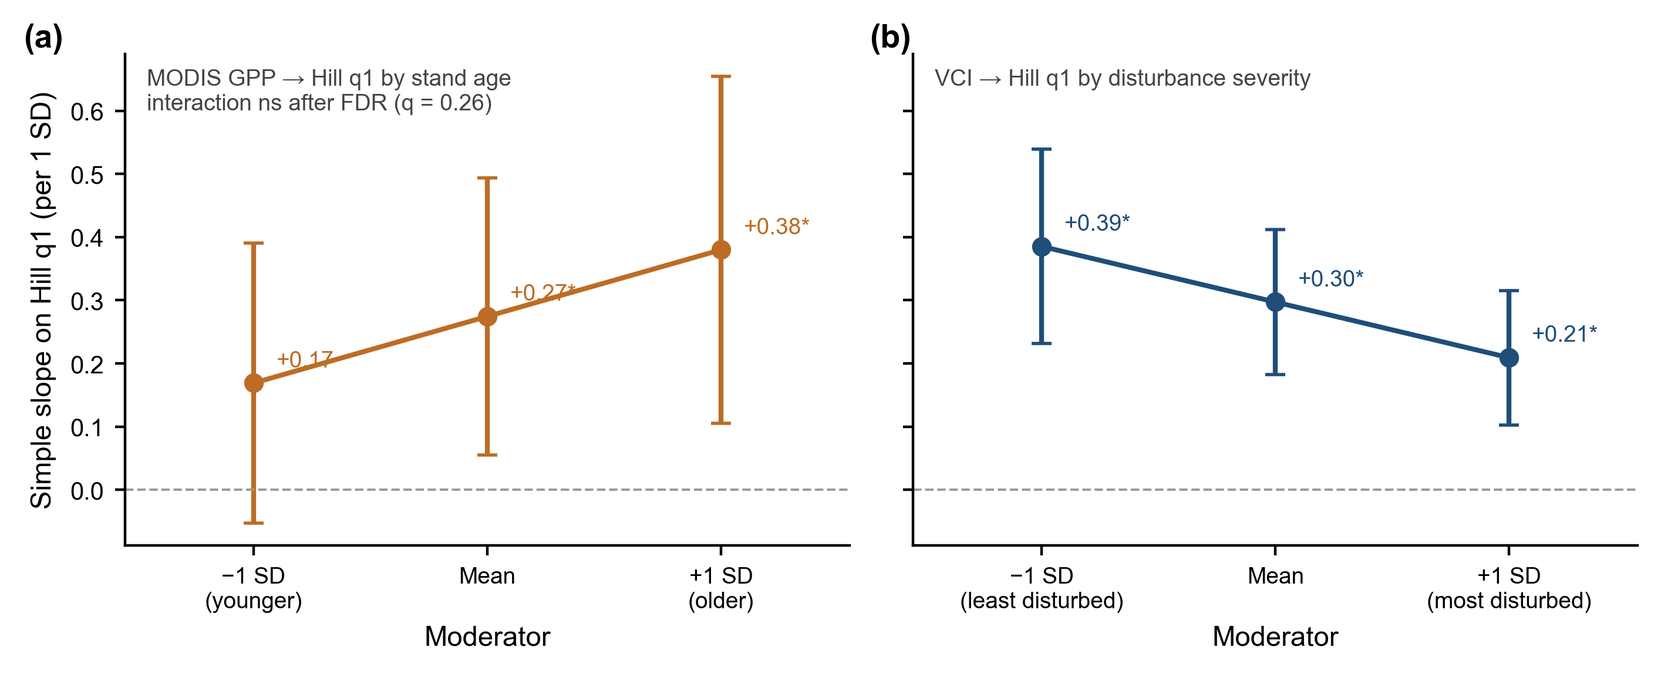
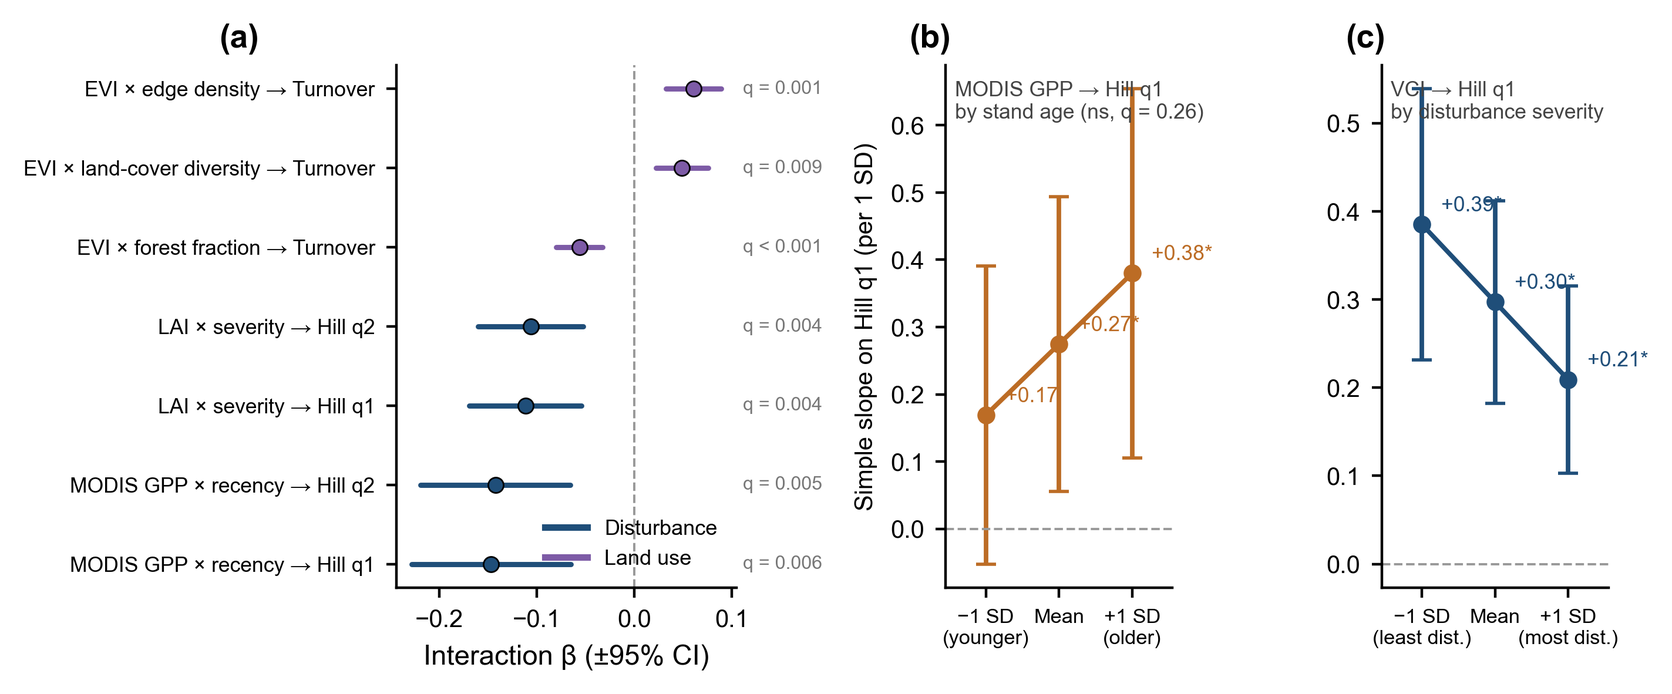
Figure revisions per author review: map redo, 4-response Bayesian, hexbin/labels, MODIS panel, full interaction forest
- Fig 2: CONUS Albers (EPSG:5070) main map + Alaska Albers (EPSG:3338) inset;
  manual per-site label offsets for clustered sites (both panels).
- Fig 3: Bayesian multilevel extended to ALL FOUR responses (bayes_multilevel.py
  loops q1/q2/turnover/nestedness; all 0 divergences, R-hat<=1.002). Forests now
  (c) q1, (d) q2 (mirrors q1: LAI +0.40, VCI +0.26, EVI +0.26), (e) turnover
  (only two small credible trends, beta ~ +0.09), (f) nestedness.
- Fig 4: hexagons regularized (explicit extent + gridsize), density colorbar
  ("Number of plot pairs, log scale"), red decile-mean line legend added.
- Fig 5: MODIS panel added (c): site-mean MODIS vs Hill q1 r=+0.60 p=0.001,
  MODIS-tower r=+0.85; PML panel annotated vs tower r=+0.86.
- Fig 6: redesigned - (a) all seven FDR-surviving interactions from the 168-term
  screen (incl. the three spectral EVI x land-use terms; Wald-reconstructed CIs,
  q labels outside axis), (b) GPP x age simple slopes, (c) VCI x severity.
Manuscript: Methods (Bayesian all four responses), 3.1 (q2/turnover Bayesian
results, panel refs c-f), 3.5 (satellite-diversity r values, Fig 5b,c), 3.6
(Fig 6a screen citation, slopes 6b/6c), legends 2-6 updated; S8 note extended.
All VERIFY checks pass.

Claude-Session: https://claude.ai/code/session_014QmjDFaec9SLSW3vnUrtQu

diff --git a/scripts_pipeline/make_manuscript_figures.py b/scripts_pipeline/make_manuscript_figures.py
@@ -90,25 +90,45 @@ import geopandas as gpd
 NE=os.path.join(r"C:\Users\star1\Documents\GitHub\NEON_Resilience","scripts_pipeline","_pipeline_state","ne_states.gpkg")
 if not os.path.exists(NE):
     gpd.read_file("https://naturalearth.s3.amazonaws.com/110m_cultural/ne_110m_admin_1_states_provinces.zip").to_file(NE)
-ALB="ESRI:102008"   # North America Albers equal-area
-states=gpd.read_file(NE).to_crs(ALB)
+states_raw=gpd.read_file(NE)
+name_col=[c for c in states_raw.columns if c.lower() in ("name","name_en")][0]
+conus=states_raw[~states_raw[name_col].isin(["Alaska","Hawaii"])].to_crs("EPSG:5070")   # CONUS Albers
+ak=states_raw[states_raw[name_col]=="Alaska"].to_crs("EPSG:3338")                        # Alaska Albers
 ll=pd.read_csv(D+"/plot_lonlat_26.csv").groupby("siteID")[["lon","lat"]].mean().reset_index()
 cl=pd.read_csv(D+"/site_climate_neon.csv"); hq=f.groupby("siteID").Hill_q1.mean().reset_index()
 sm=ll.merge(cl,on="siteID").merge(hq,on="siteID")
-pts=gpd.GeoDataFrame(sm,geometry=gpd.points_from_xy(sm.lon,sm.lat),crs=4326).to_crs(ALB)
-fig,ax=plt.subplots(1,2,figsize=(W,3.15),gridspec_kw={"width_ratios":[1.5,1]})
-states.plot(ax=ax[0],color="#f1f1ef",edgecolor="#ffffff",lw=0.5)
-states.boundary.plot(ax=ax[0],color="#c9c9c4",lw=0.35)
-sc=ax[0].scatter(pts.geometry.x,pts.geometry.y,c=pts.MAT_C,cmap="RdYlBu_r",s=42,edgecolor="#222222",linewidth=0.6,zorder=3)
-for _,r in pts.iterrows():
-    ax[0].annotate(r.siteID,(r.geometry.x,r.geometry.y),fontsize=4.6,color="#333333",xytext=(2.6,2.2),textcoords="offset points")
-xb,yb=pts.total_bounds[[0,2]],pts.total_bounds[[1,3]]
-ax[0].set_xlim(xb[0]-4.0e5,xb[1]+4.5e5); ax[0].set_ylim(yb[0]-3.5e5,yb[1]+3.5e5)
+gsm=gpd.GeoDataFrame(sm,geometry=gpd.points_from_xy(sm.lon,sm.lat),crs=4326)
+p48=gsm[gsm.lat<50].to_crs("EPSG:5070"); pak=gsm[gsm.lat>=50].to_crs("EPSG:3338")
+OFF={"UNDE":(3,7),"STEI":(-17,-9),"TREE":(4,-9),"ABBY":(-21,5),"WREF":(4,-8),"SOAP":(-22,-3),"TEAK":(4,3),
+     "BLAN":(-19,6),"SCBI":(-20,-7),"SERC":(5,1),"TALL":(-17,7),"DELA":(-25,-4),"LENO":(4,-9),"ORNL":(-21,-7),
+     "GRSM":(4,-8),"MLBS":(-22,3),"BART":(3,5),"HARV":(5,-5),"JERC":(4,-7),"OSBS":(4,2),"BONA":(3,4),
+     "DEJU":(3,-9),"HEAL":(-22,-1),"UKFS":(3,4),"YELL":(3,4),"RMNP":(3,4)}
+def lab(axh,dd,fs=4.8):
+    for _,r in dd.iterrows():
+        dx,dy=OFF.get(r.siteID,(3,3))
+        axh.annotate(r.siteID,(r.geometry.x,r.geometry.y),fontsize=fs,color="#333333",xytext=(dx,dy),textcoords="offset points")
+vmin,vmax=sm.MAT_C.min(),sm.MAT_C.max()
+fig,ax=plt.subplots(1,2,figsize=(W,3.25),gridspec_kw={"width_ratios":[1.5,1]})
+conus.plot(ax=ax[0],color="#f1f1ef",edgecolor="#ffffff",lw=0.5)
+conus.boundary.plot(ax=ax[0],color="#c9c9c4",lw=0.35)
+sc=ax[0].scatter(p48.geometry.x,p48.geometry.y,c=p48.MAT_C,cmap="RdYlBu_r",vmin=vmin,vmax=vmax,s=40,edgecolor="#222222",linewidth=0.6,zorder=3)
+lab(ax[0],p48)
 ax[0].set_axis_off(); panel(ax[0],"(a)",0.01,0.97)
+# Alaska inset (its own Albers) at lower-left of panel a
+axi=ax[0].inset_axes([0.00,0.02,0.30,0.34])
+ak.plot(ax=axi,color="#f1f1ef",edgecolor="#c9c9c4",lw=0.35)
+axi.scatter(pak.geometry.x,pak.geometry.y,c=pak.MAT_C,cmap="RdYlBu_r",vmin=vmin,vmax=vmax,s=28,edgecolor="#222222",linewidth=0.5,zorder=3)
+lab(axi,pak,fs=4.4)
+axi.set_xlim(-0.8e6,1.65e6); axi.set_ylim(0.4e6,2.4e6)
+axi.set_xticks([]); axi.set_yticks([])
+for sp in axi.spines.values(): sp.set_edgecolor("#aaaaaa"); sp.set_linewidth(0.6)
+axi.set_title("Alaska",fontsize=6,color="#555555",pad=1.5)
 cb=fig.colorbar(sc,ax=ax[0],shrink=0.62,pad=0.01,aspect=22); cb.set_label("Mean annual temperature (°C)",fontsize=7.5); cb.ax.tick_params(labelsize=7)
 cb.outline.set_visible(False)
-s2=ax[1].scatter(sm.MAT_C,sm.MAP_mm,c=sm.Hill_q1,cmap="viridis",s=46,edgecolor="#222222",linewidth=0.6)
-for _,r in sm.iterrows(): ax[1].annotate(r.siteID,(r.MAT_C,r.MAP_mm),fontsize=4.6,color="#333333",xytext=(2.6,2.2),textcoords="offset points")
+s2=ax[1].scatter(sm.MAT_C,sm.MAP_mm,c=sm.Hill_q1,cmap="viridis",s=44,edgecolor="#222222",linewidth=0.6)
+for _,r in sm.iterrows():
+    dx,dy=OFF.get(r.siteID,(3,3))
+    ax[1].annotate(r.siteID,(r.MAT_C,r.MAP_mm),fontsize=4.8,color="#333333",xytext=(dx,dy),textcoords="offset points")
 ax[1].set_xlabel("Mean annual temperature (°C)"); ax[1].set_ylabel("Mean annual precipitation (mm)")
 panel(ax[1],"(b)",-0.22,1.00)
 cb2=fig.colorbar(s2,ax=ax[1],shrink=0.85,pad=0.03,aspect=22); cb2.set_label("Site-mean Hill q1",fontsize=7.5); cb2.ax.tick_params(labelsize=7)
@@ -117,7 +137,7 @@ fig.tight_layout(); fig.savefig(FIG+"/Figure_2.png",bbox_inches="tight"); plt.cl
 print(f"VERIFY Fig2: sites={len(sm)} (26), MAT {sm.MAT_C.min():.1f}~{sm.MAT_C.max():.1f}C, MAP {sm.MAP_mm.min():.0f}~{sm.MAP_mm.max():.0f}mm")
 
 # ================= FIGURE 3 : plot-level framework =================
-fig=plt.figure(figsize=(W,6.5)); gs=fig.add_gridspec(2,2,hspace=0.42,wspace=0.34)
+fig=plt.figure(figsize=(W,9.4)); gs=fig.add_gridspec(3,2,hspace=0.46,wspace=0.34,height_ratios=[1.05,1,1])
 x=np.arange(4); w=0.58
 # (a) sequential
 ax=fig.add_subplot(gs[0,0])
@@ -158,8 +178,13 @@ def forest(sub_ax,resp_label):
     sub_ax.set_xlabel("Standardized β (95% HDI)"); sub_ax.set_xlim(-0.55,0.66)
     m=bm.loc[rr]
     sub_ax.set_title(f"{resp_label}   (0 divergences, R̂ ≤ {m['max_rhat']:.3f}, n = {int(m['n'])})",fontsize=7.4,loc="left",color="#444444")
-axc=fig.add_subplot(gs[1,0]); forest(axc,"Hill q1"); panel(axc,"(c)",-0.30,1.02)
-axd=fig.add_subplot(gs[1,1]); forest(axd,"LCBD nestedness"); panel(axd,"(d)",-0.30,1.02)
+FOREST_ORDER=[("Hill q1","Hill_q1","(c)"),("Hill q2","Hill_q2","(d)"),
+              ("LCBD turnover","LCBD_turnover_rare","(e)"),("LCBD nestedness","LCBD_nestedness_rare","(f)")]
+BAYES_RESP={lbl:rr for lbl,rr,_ in FOREST_ORDER if rr in set(bc.response)}
+slots=[gs[1,0],gs[1,1],gs[2,0],gs[2,1]]
+for (lbl,rr,letter),slot in zip(FOREST_ORDER,slots):
+    if rr not in set(bc.response): continue
+    axf=fig.add_subplot(slot); forest(axf,lbl); panel(axf,letter,-0.30,1.02)
 fig.savefig(FIG+"/Figure_3.png",bbox_inches="tight"); plt.close(fig)
 seq=[round(d,3) for d in dyn]
 print(f"VERIFY Fig3: seq dyn={seq} (text 0.042/0.039/0.013/0.056) | unique str q1={vp.loc['Hill q1','unique_structure']:.3f} (0.081), dyn nest={vp.loc['LCBD nestedness','unique_dynamics']:.3f} (0.056)")
@@ -192,58 +217,92 @@ else:
     y=np.concatenate(Y); xst=np.concatenate(XSt); xse=np.concatenate(XSe)
     np.savez_compressed(DCACHE,y=y,xst=xst,xse=xse,nsite=nsite)
 rst=np.corrcoef(rankdata(xst),rankdata(y))[0,1]; rse=np.corrcoef(rankdata(xse),rankdata(y))[0,1]
-fig,ax=plt.subplots(1,2,figsize=(W,3.15),sharey=True)
+fig,ax=plt.subplots(1,2,figsize=(W,3.55),sharey=True)
+hbs=[]
 for a,(xx,r,xlab,letter) in zip(ax,[(xst,rst,"Structural distance (Euclidean)","(a)"),(xse,rse,"Spectral distance (Euclidean)","(b)")]):
-    hb=a.hexbin(xx,y,gridsize=55,cmap="Greys",bins="log",mincnt=1,linewidths=0)
+    xmax=float(np.quantile(xx,0.995))
+    hb=a.hexbin(xx,y,gridsize=(34,26),extent=(0,xmax,0,1.0),cmap="Greys",bins="log",mincnt=1,linewidths=0)
+    hbs.append(hb)
     bins=np.quantile(xx,np.linspace(0,1,11)); idx=np.digitize(xx,bins)
     bx=[xx[idx==k].mean() for k in range(1,11) if (idx==k).sum()>=50]; by=[y[idx==k].mean() for k in range(1,11) if (idx==k).sum()>=50]
-    a.plot(bx,by,'o-',color=C_ACC,ms=4.2,lw=1.6,zorder=4)
-    a.set_xlabel(xlab); a.set_xlim(0,np.quantile(xx,0.995))
-    a.text(0.03,0.06,f"Mantel r = {r:+.2f} (Spearman), p = 0.001",transform=a.transAxes,fontsize=7.2,color="#222222")
+    a.plot(bx,by,'o-',color=C_ACC,ms=4.2,lw=1.6,zorder=4,label="Decile-bin mean")
+    a.set_xlabel(xlab); a.set_xlim(0,xmax); a.set_ylim(-0.02,1.04)
+    a.text(0.03,0.045,f"Mantel r = {r:+.2f} (Spearman), p = 0.001",transform=a.transAxes,fontsize=7.2,color="#222222")
     panel(a,letter,-0.14 if letter=="(a)" else -0.06,1.00)
 ax[0].set_ylabel("Compositional dissimilarity (Bray–Curtis)")
-fig.tight_layout(); fig.savefig(FIG+"/Figure_4.png",bbox_inches="tight"); plt.close(fig)
+ax[0].legend(frameon=False,loc="lower right",fontsize=7)
+cb=fig.colorbar(hbs[1],ax=ax,shrink=0.85,pad=0.015,aspect=26)
+cb.set_label("Number of plot pairs (log scale)",fontsize=7.5); cb.ax.tick_params(labelsize=7); cb.outline.set_visible(False)
+fig.savefig(FIG+"/Figure_4.png",bbox_inches="tight"); plt.close(fig)
 print(f"VERIFY Fig4: Spearman struct={rst:+.2f} (+0.32), spectral={rse:+.2f} (+0.30), pairs={len(y)} (8,813), sites={nsite} (23)")
 
 # ================= FIGURE 5 : species-energy =================
 g3=pd.read_csv(D+"/plot_pml_gpp_ts_26.csv")[["plotID","pml_gpp"]]
-site=f.merge(g3,on="plotID").groupby("siteID").agg(Hill_q1=("Hill_q1","mean"),pml=("pml_gpp","mean")).reset_index()
+gm=pd.read_csv(D+"/plot_modis_gpp_26.csv")[["plotID","modis_gpp"]]
+site=(f.merge(g3,on="plotID").merge(gm,on="plotID",how="left")
+       .groupby("siteID").agg(Hill_q1=("Hill_q1","mean"),pml=("pml_gpp","mean"),modis=("modis_gpp","mean")).reset_index())
 tw=pd.read_csv(D+"/site_tower_gpp_26.csv")[["siteID","tower_gpp"]]; site=site.merge(tw,on="siteID",how="left")
 tv=site.dropna(subset=["tower_gpp"])
 rt,pt=st.pearsonr(tv.tower_gpp,tv.Hill_q1)
 t2=tv.assign(z=(tv.tower_gpp-tv.tower_gpp.mean())/tv.tower_gpp.std()); qt=smf.ols("Hill_q1 ~ z + I(z**2)",t2).fit().pvalues["I(z ** 2)"]
 rp_,pp_=st.pearsonr(site.pml,site.Hill_q1); rvt=st.pearsonr(tv.pml,tv.tower_gpp)[0]
-fig,ax=plt.subplots(1,2,figsize=(W,3.15),sharey=True)
-for a,(d3,xc,r,p,xl,note,col,letter) in zip(ax,[
-    (tv,"tower_gpp",rt,pt,"Tower GPP (gC m$^{-2}$ yr$^{-1}$)",f"r = {rt:+.2f}, p = {pt:.3f}\nquadratic ns (p = {qt:.2f})",C_PRO,"(a)"),
-    (site,"pml",rp_,pp_,"Site-mean PML-V2 GPP (2000–2024)",f"r = {rp_:+.2f}, p = {pp_:.3f}\nPML vs tower r = +{rvt:.2f}","#2a6f4e","(b)")]):
-    a.scatter(d3[xc],d3.Hill_q1,s=30,color=col,edgecolor="white",linewidth=0.5,zorder=3)
-    for _,row in d3.iterrows(): a.annotate(row.siteID,(row[xc],row.Hill_q1),fontsize=4.4,color="#555555",xytext=(2.6,2.0),textcoords="offset points")
-    b1,b0=np.polyfit(d3[xc],d3.Hill_q1,1); xr=np.linspace(d3[xc].min(),d3[xc].max(),50); a.plot(xr,b0+b1*xr,color="#222222",lw=1.4)
-    a.set_xlabel(xl)
-    a.text(0.03,0.87,note,transform=a.transAxes,fontsize=7.2,color="#222222")
-    panel(a,letter,-0.14 if letter=="(a)" else -0.06,1.00)
+sm_=site.dropna(subset=["modis"]); rm_,pm_=st.pearsonr(sm_.modis,sm_.Hill_q1); rmt=st.pearsonr(tv.modis,tv.tower_gpp)[0]
+fig,ax=plt.subplots(1,3,figsize=(W,2.75),sharey=True)
+for a,(d3,xc,xl,note,col,letter) in zip(ax,[
+    (tv,"tower_gpp","Tower GPP (gC m$^{-2}$ yr$^{-1}$)",f"r = {rt:+.2f}, p = {pt:.3f}\nquadratic ns (p = {qt:.2f})",C_PRO,"(a)"),
+    (site,"pml","Site-mean PML-V2 GPP",f"r = {rp_:+.2f}, p = {pp_:.3f}\nvs tower r = +{rvt:.2f}","#2a6f4e","(b)"),
+    (sm_,"modis","Site-mean MODIS GPP",f"r = {rm_:+.2f}, p = {pm_:.3f}\nvs tower r = +{rmt:.2f}","#556b2f","(c)")]):
+    a.scatter(d3[xc],d3.Hill_q1,s=24,color=col,edgecolor="white",linewidth=0.5,zorder=3)
+    for _,row in d3.iterrows(): a.annotate(row.siteID,(row[xc],row.Hill_q1),fontsize=4.0,color="#666666",xytext=(2.2,1.8),textcoords="offset points")
+    b1,b0=np.polyfit(d3[xc],d3.Hill_q1,1); xr=np.linspace(d3[xc].min(),d3[xc].max(),50); a.plot(xr,b0+b1*xr,color="#222222",lw=1.3)
+    a.set_xlabel(xl,fontsize=7.8)
+    a.text(0.03,0.86,note,transform=a.transAxes,fontsize=6.8,color="#222222")
+    panel(a,letter,-0.20 if letter=="(a)" else -0.08,1.00)
 ax[0].set_ylabel("Site-mean tree diversity (Hill q1)")
 fig.tight_layout(); fig.savefig(FIG+"/Figure_5.png",bbox_inches="tight"); plt.close(fig)
-print(f"VERIFY Fig5: tower r={rt:+.2f} p={pt:.3f} (+0.59, 0.004), quad p={qt:.2f} (0.87), PML-tower r={rvt:+.2f} (+0.86), n_tower={len(tv)} (22)")
+print(f"VERIFY Fig5: tower r={rt:+.2f} p={pt:.3f} (+0.59, 0.004), quad p={qt:.2f} (0.87), PML r={rp_:+.2f}, MODIS r={rm_:+.2f}, PML-tower +{rvt:.2f} (+0.86), MODIS-tower +{rmt:.2f}, n_tower={len(tv)} (22)")
 
 # ================= FIGURE 6 : context moderation =================
+# (a) all FDR-surviving interaction terms from the full screen (168 terms; incl. spectral x land use)
+o4=pd.read_csv(RES+"/o4_interactions_consistent.csv"); sig=o4[o4.q<0.05].copy()
+zcrit=st.norm.ppf(1-sig.p/2); sig["se_appx"]=np.abs(sig.beta_int)/zcrit    # Wald-reconstructed SE
+RSN={"LAI_mean":"LAI","VCI_mean":"VCI","EVI_mean":"EVI","modis_gpp":"MODIS GPP","pml_gpp":"PML GPP"}
+CTXN={"severity":"severity","recency":"recency","lc_shannon":"land-cover diversity","lc_edge":"edge density",
+      "forest_frac":"forest fraction","lc_forest_frac":"forest fraction","stand_age_gami":"stand age"}
+RESPN={"Hill q1":"Hill q1","Hill q2":"Hill q2","turnover":"Turnover","nestedness":"Nestedness","Turnover":"Turnover","Nestedness":"Nestedness"}
+FAMC={"disturbance":C_STR,"land use":"#7d5ba6","stand age":C_PRO}
+sig["label"]=[f"{RSN.get(r.rs,r.rs)} × {CTXN.get(r.context,r.context)} → {RESPN.get(r.response,r.response)}" for r in sig.itertuples()]
+sig=sig.sort_values(["family","beta_int"]).reset_index(drop=True)
 ss=pd.read_csv(RES+"/simple_slopes.csv"); z=[-1,0,1]
 gA=ss[(ss.rp=="Hill q1")&(ss.rs=="modis_gpp")&(ss.ctx=="stand_age_gami")].sort_values("ctx_z")
 gB=ss[(ss.rp=="Hill q1")&(ss.rs=="VCI_mean")&(ss.ctx=="severity")].sort_values("ctx_z")
-fig,ax=plt.subplots(1,2,figsize=(W,2.9),sharey=True)
-for a,(g4,col,xt,note,letter) in zip(ax,[
-    (gA,C_PRO,["−1 SD\n(younger)","Mean","+1 SD\n(older)"],"MODIS GPP → Hill q1 by stand age\ninteraction ns after FDR (q = 0.26)","(a)"),
-    (gB,C_STR,["−1 SD\n(least disturbed)","Mean","+1 SD\n(most disturbed)"],"VCI → Hill q1 by disturbance severity","(b)")]):
-    a.errorbar(z,g4.slope,yerr=1.96*g4.se,marker="o",capsize=3,color=col,lw=1.5,ms=5)
+fig,ax=plt.subplots(1,3,figsize=(W,3.0),gridspec_kw={"width_ratios":[1.5,1,1]})
+a=ax[0]; ysig=np.arange(len(sig))
+for yi,r in zip(ysig,sig.itertuples()):
+    c=FAMC.get(r.family,"#444444")
+    a.plot([r.beta_int-1.96*r.se_appx,r.beta_int+1.96*r.se_appx],[yi,yi],color=c,lw=1.6,solid_capstyle="round")
+    a.scatter([r.beta_int],[yi],s=22,color=c,edgecolor="black",linewidth=0.5,zorder=3)
+    qtxt="q < 0.001" if r.q<0.001 else f"q = {r.q:.3f}"
+    a.text(1.02,yi,qtxt,transform=a.get_yaxis_transform(),fontsize=5.8,color="#777777",va="center",ha="left")
+a.axvline(0,color="#999999",lw=0.7,ls="--")
+a.set_yticks(ysig); a.set_yticklabels(sig.label,fontsize=6.4)
+a.set_xlabel("Interaction β (±95% CI)")
+from matplotlib.lines import Line2D
+a.legend(handles=[Line2D([0],[0],color=FAMC["disturbance"],lw=2,label="Disturbance"),
+                  Line2D([0],[0],color=FAMC["land use"],lw=2,label="Land use")],
+         frameon=False,loc="lower right",fontsize=6.5)
+panel(a,"(a)",-0.52,1.02)
+for a,(g4,col,xt,note,letter) in zip(ax[1:],[
+    (gA,C_PRO,["−1 SD\n(younger)","Mean","+1 SD\n(older)"],"MODIS GPP → Hill q1\nby stand age (ns, q = 0.26)","(b)"),
+    (gB,C_STR,["−1 SD\n(least dist.)","Mean","+1 SD\n(most dist.)"],"VCI → Hill q1\nby disturbance severity","(c)")]):
+    a.errorbar(z,g4.slope,yerr=1.96*g4.se,marker="o",capsize=3,color=col,lw=1.4,ms=4.5)
     for zz,sl,pv in zip(z,g4.slope,g4.p):
-        a.annotate(f"{sl:+.2f}{'*' if pv<0.05 else ''}",(zz,sl),textcoords="offset points",xytext=(7,5),color=col,fontsize=7)
+        a.annotate(f"{sl:+.2f}{'*' if pv<0.05 else ''}",(zz,sl),textcoords="offset points",xytext=(6,4),color=col,fontsize=6.4)
     a.axhline(0,color="#999999",lw=0.7,ls="--")
-    a.set_xticks(z); a.set_xticklabels(xt,fontsize=7); a.set_xlim(-1.55,1.55)
-    a.set_xlabel("Moderator")
-    a.text(0.03,0.97,note,transform=a.transAxes,fontsize=7.0,color="#444444",va="top")
-    panel(a,letter,-0.14 if letter=="(a)" else -0.06,1.00)
-ax[0].set_ylabel("Simple slope on Hill q1 (per 1 SD)")
+    a.set_xticks(z); a.set_xticklabels(xt,fontsize=6.2); a.set_xlim(-1.55,1.55)
+    a.text(0.04,0.97,note,transform=a.transAxes,fontsize=6.4,color="#444444",va="top")
+    panel(a,letter,-0.16,1.02)
+ax[1].set_ylabel("Simple slope on Hill q1 (per 1 SD)",fontsize=7.5)
 fig.tight_layout(); fig.savefig(FIG+"/Figure_6.png",bbox_inches="tight"); plt.close(fig)
-print(f"VERIFY Fig6: MODISxAge slopes={[round(v,2) for v in gA.slope]} p={[round(v,3) for v in gA.p]} (+0.17/+0.27/+0.38) | VCIxSev={[round(v,2) for v in gB.slope]} (+0.39->+0.21)")
+print(f"VERIFY Fig6: FDR-sig interactions={len(sig)} (7: 4 disturbance + 3 land use) | MODISxAge slopes={[round(v,2) for v in gA.slope]} | VCIxSev={[round(v,2) for v in gB.slope]}")
 print("ALL FIGURES SAVED ->",FIG)

diff --git a/scripts_pipeline/bayes_multilevel.py b/scripts_pipeline/bayes_multilevel.py
@@ -12,9 +12,11 @@ S=["Rugosity_mean","Vert_CV_mean","VCI_mean","LAI_mean"];P=["EVI_mean"]
 Dn=["Rumple_trend","Vert_SD_trend","Vert_CV_trend","VCI_trend","FHD_trend","LAI_trend","Ht_Ratio_trend"];keep=S+P+Dn
 def block(c): return "structure" if c in S else "spectral" if c in P else "dynamics"
 coef_rows=[]; meta_rows=[]
-for resp in ['Hill_q1','LCBD_nestedness_rare']:
+for resp in ['Hill_q1','Hill_q2','LCBD_turnover_rare','LCBD_nestedness_rare']:
     d=f[[resp,'domain','siteID']+keep].dropna().copy()
-    y=np.log(d[resp]) if 'Hill' in resp else d[resp].astype(float); d['y']=(y-y.mean())/y.std()
+    if 'Hill' in resp: y=np.log(d[resp])
+    else: y=d[resp].astype(float)
+    d['y']=(y-y.mean())/y.std()
     for c in keep: d[c]=(d[c]-d[c].mean())/d[c].std()
     priors={"1|domain":bmb.Prior("Normal",mu=0,sigma=bmb.Prior("HalfNormal",sigma=0.5)),
             "1|domain:siteID":bmb.Prior("Normal",mu=0,sigma=bmb.Prior("HalfNormal",sigma=0.3))}

diff --git a/NEON_v2/papers/UNIFIED/MANUSCRIPT_v2_full_26site.md b/NEON_v2/papers/UNIFIED/MANUSCRIPT_v2_full_26site.md
@@ -71,7 +71,7 @@ Relationships were estimated with linear models that included NEON domain as a f
 
 Nested framework and few-cluster inference: Plot-level analyses followed a nested hierarchical framework (M0: domain; M1: + static structure and spectral state; M2: + structural dynamics) fitted over a common sample (n = 644 alpha plots, 579 beta plots). We did not include productivity as a plot-level block. The satellite GPP products carry essentially no plot-scale variation (ICC ≈ 0.92), and diagnostic runs that forced GPP into the plot model yielded a non-robust increment and a suppression pattern between the two satellite products (Section 3.4). Productivity–diversity relationships were therefore analysed at the site scale (site-mean diversity versus tower, PML, and MODIS GPP, with linear and quadratic terms to test the shape of the relationship). Because inference rested on 26 site clusters, a regime in which asymptotic cluster-robust standard errors are anticonservative, block-level significance was assessed primarily with restricted wild cluster bootstrap tests (Rademacher weights, 999 replicates) of the null that the added block's coefficients were jointly zero. Asymptotic cluster-robust Wald tests, likelihood-ratio tests, and AIC are reported as secondary summaries. Both sequential partial R² and blockwise semi-partial (unique) R² are reported and labelled explicitly.
 
-Coefficient-level Bayesian inference: The wild cluster bootstrap tests a joint block-increment null and is conservative at this cluster count; it does not resolve which individual predictors carry the signal. We therefore complemented it with a Bayesian multilevel model estimating every standardized coefficient simultaneously under partial pooling, for the two responses where the block test and the coefficient patterns diverged (alpha diversity and nestedness). Models were fitted in bambi/PyMC with crossed random intercepts for domain and site-within-domain, a non-centred parameterization, and weakly informative HalfNormal priors on the group scales (domain σ ~ HalfNormal(0.5); site σ ~ HalfNormal(0.3)) to regularize the near-singular site-variance geometry. Four chains were run with 3,000 tuning and 2,000 posterior draws each (target_accept = 0.99). Convergence was complete (0 divergent transitions; R̂ ≤ 1.002). A coefficient was deemed credible when its 95% highest-density interval (HDI) excluded zero; we also report the posterior probability of direction (Table S8).
+Coefficient-level Bayesian inference: The wild cluster bootstrap tests a joint block-increment null and is conservative at this cluster count; it does not resolve which individual predictors carry the signal. We therefore complemented it with a Bayesian multilevel model estimating every standardized coefficient simultaneously under partial pooling, fitted separately for each of the four diversity responses. Models were fitted in bambi/PyMC with crossed random intercepts for domain and site-within-domain, a non-centred parameterization, and weakly informative HalfNormal priors on the group scales (domain σ ~ HalfNormal(0.5); site σ ~ HalfNormal(0.3)) to regularize the near-singular site-variance geometry. Four chains were run with 3,000 tuning and 2,000 posterior draws each (target_accept = 0.99). Convergence was complete (0 divergent transitions; R̂ ≤ 1.002). A coefficient was deemed credible when its 95% highest-density interval (HDI) excluded zero; we also report the posterior probability of direction (Table S8).
 
 Beta diversity as dissimilarity (variation hypothesis): A predictor-level regression asks a different question from the variation hypothesis (are plots that look more different also compositionally more different?). We therefore additionally analysed beta diversity in dissimilarity space. Pairwise structural and spectral distances (Euclidean, on the standardized retained metrics) were related to compositional Bray–Curtis dissimilarity using within-site restricted-permutation Mantel tests (999 permutations of plots within sites, holding biogeography fixed). We report rank-based (Spearman) statistics because ~9% of within-site pairs share no species, which creates a ceiling at Bray–Curtis = 1. Structural and spectral distances were then fitted jointly in a saturation model appropriate to the bounded response (a GDM-family logit-link model), with significance from the same permutation scheme. Last, structural and spectral local uniqueness (LCBD computed on the remote-sensing matrices) was correlated with the turnover and nestedness components to test which beta component the heterogeneity signal tracks.
 
@@ -85,7 +85,7 @@ We first partitioned plot-level diversity variance among the two remote-sensing 
 
 Biogeographic structure alone (NEON domain) accounted for a large share of compositional turnover (R² = 0.58) and for a third to a half of the remaining components (Hill q1 R² = 0.49; Hill q2 = 0.45; nestedness = 0.33). Beyond this baseline, canopy state plus structural dynamics together explained a further 15% of alpha-diversity variance, but only 2% of turnover and 9% of nestedness (Figure 3a).
 
-Structural dynamics increased sequential partial R² by 0.042, 0.039, 0.013, and 0.056 for Hill q1, Hill q2, turnover, and nestedness, respectively. Under restricted wild cluster bootstrap tests, this joint block increment was significant for both alpha metrics (p = 0.014 and 0.007) but not for turnover (p = 0.77) or nestedness (p = 0.14). It is noted that the block-level bootstrap is a conservative joint test of the whole block's added R² and is underpowered with only ~12 domains. Because the dynamics–nestedness link is the principal beta-diversity result of this study, we also tested it at the coefficient level with the Bayesian multilevel model (Section 2.5). Three structural-dynamics trends were credibly associated with nestedness (95% HDI excluding zero): the canopy height-ratio trend (β = −0.31, HDI [−0.42, −0.20]), the vertical-CV trend (β = +0.20, HDI [+0.08, +0.32]), and the leaf-area trend (β = −0.19, HDI [−0.31, −0.07]) (Figure 3d). This was the largest credible block for this component. The same model reproduced the alpha result (LAI β = +0.40; VCI β = +0.27; both HDI excluding zero) (Figure 3c). We therefore report the dynamics → nestedness relationship as supported at the coefficient level, while the conservative joint block test does not reach few-cluster significance (Table S8).
+Structural dynamics increased sequential partial R² by 0.042, 0.039, 0.013, and 0.056 for Hill q1, Hill q2, turnover, and nestedness, respectively. Under restricted wild cluster bootstrap tests, this joint block increment was significant for both alpha metrics (p = 0.014 and 0.007) but not for turnover (p = 0.77) or nestedness (p = 0.14). It is noted that the block-level bootstrap is a conservative joint test of the whole block's added R² and is underpowered with only ~12 domains. Because the dynamics–nestedness link is the principal beta-diversity result of this study, we also tested it at the coefficient level with the Bayesian multilevel model (Section 2.5). Three structural-dynamics trends were credibly associated with nestedness (95% HDI excluding zero): the canopy height-ratio trend (β = −0.31, HDI [−0.42, −0.20]), the vertical-CV trend (β = +0.20, HDI [+0.08, +0.32]), and the leaf-area trend (β = −0.19, HDI [−0.31, −0.07]) (Figure 3f). This was the largest credible block for this component. The same model reproduced the alpha result for both Hill numbers (Hill q1: LAI β = +0.41, VCI β = +0.27; Hill q2: LAI β = +0.40, VCI β = +0.26; all HDI excluding zero) (Figure 3c, d), and for turnover it found only two small credible dynamics trends (LAI trend and height-ratio trend, both β ≈ +0.09) (Figure 3e), consistent with the small turnover R² above. We therefore report the dynamics → nestedness relationship as supported at the coefficient level, while the conservative joint block test does not reach few-cluster significance (Table S8).
 
 The variance partition (semi-partial R²; Figure 1b) showed that each plot-level dimension retained information after mutual adjustment, and that the dominant source differed among diversity components. Static structure carried the largest unique share of alpha diversity (Hill q1 = 0.081; Hill q2 = 0.073). Structural dynamics formed the largest unique block for nestedness (0.056) and the second-largest for alpha. Under wild cluster bootstrap block tests, all three blocks were significant for alpha (structure p = 0.001; spectral p ≈ 0.008–0.009; dynamics p = 0.007–0.014), whereas no block reached significance for either beta component under this joint test (all p ≥ 0.10). For turnover, the unique fractions were all small (≤ 0.013) and largely shared, indicating that no single dimension carries much unique turnover information as predictor levels. Spectral greenness contributed a small but significant alpha signal (0.011–0.013) and essentially no unique beta information (turnover = 0.001; nestedness = 0.000). Residual spatial autocorrelation was detectable but modest (Moran's I = 0.09–0.22, all p = 0.001), and block-level estimates were stable after including a smooth spatial trend.
 
@@ -107,15 +107,15 @@ Along the successional axis, the rate of leaf-area accumulation declined with st
 
 ## 3.5 Productivity relates to diversity at the site scale (species–energy)
 
-At the site level, the species–energy relationship was clear. Tower GPP was positively and monotonically related to site-mean alpha diversity across the 22 tower sites (Hill q1: r = +0.59, p = 0.004; Hill q2: r = +0.57, p = 0.006), with no evidence of a hump (quadratic p = 0.87) (Figure 5a). The satellite products agreed: site-mean PML-V2 tracked the tower closely (r = +0.86), MODIS somewhat less (r = +0.85), and both showed the same monotonic, hump-free increase (Figure 5b). GPP also retained a positive association with alpha diversity after replacing domain fixed effects with mean annual temperature and precipitation (Table S5), indicating that the relationship is not a pure climate signal.
+At the site level, the species–energy relationship was clear. Tower GPP was positively and monotonically related to site-mean alpha diversity across the 22 tower sites (Hill q1: r = +0.59, p = 0.004; Hill q2: r = +0.57, p = 0.006), with no evidence of a hump (quadratic p = 0.87) (Figure 5a). The satellite products agreed: site-mean PML-V2 and MODIS GPP were both positively related to site-mean diversity (PML r = +0.50, p = 0.009; MODIS r = +0.60, p = 0.001), tracked the tower closely (r = +0.86 and +0.85, respectively), and showed the same monotonic, hump-free increase (Figure 5b, c). GPP also retained a positive association with alpha diversity after replacing domain fixed effects with mean annual temperature and precipitation (Table S5), indicating that the relationship is not a pure climate signal.
 
 The plot-level diagnostic confirmed why productivity belongs at the site scale. Forced into the plot-level model, the productivity block added little (ΔR² = 0.003–0.012, all p > 0.18 with PML V2.2a), and its only non-trivial component, for turnover, was consistent with statistical suppression: MODIS and PML took strongly opposing signs in the joint model (MODIS β = −0.24, p = 0.04; PML β = +0.36, p = 0.02) despite being correlated at r = 0.85, whereas neither was clearly associated with turnover on its own (MODIS β = −0.01, p = 0.83; PML β = +0.06, p = 0.13) (Table S7). These opposing product-specific coefficients preclude a directional ecological interpretation. We therefore analyse productivity only at the site scale.
 
 ## 3.6 Ecological context modifies remote sensing–diversity associations
 
-Across three context families (stand age, disturbance, land use), the interaction screen (168 terms) identified seven terms surviving FDR correction (four disturbance, three land use). We treat the two coherent patterns below as interpretable and the remainder as exploratory.
+Across three context families (stand age, disturbance, land use), the interaction screen (168 terms) identified seven terms surviving FDR correction (four disturbance, three land use) (Figure 6a). We treat the two coherent patterns below as interpretable and the remainder as exploratory.
 
-First, the productivity–diversity association was descriptively steeper in older stands; simple slopes of MODIS GPP on Hill q1 rose from +0.17 (p = 0.13) at −1 SD stand age to +0.27 (p = 0.01) at the mean and +0.38 (p = 0.007) at +1 SD (Figure 6a). However, the formal GPP × stand-age interaction did not survive FDR correction (MODIS q = 0.26; PML q = 0.35). We therefore report age dependence of the productivity signal as suggestive rather than statistically supported. Second, the structure–diversity association weakened with disturbance. The leaf-area × severity interaction was negative for alpha diversity (q = 0.004), and disturbance recency additionally moderated the productivity signal (MODIS × recency q = 0.005). The VCI–diversity simple slope remained positive at all disturbance levels but declined from +0.39 (p = 9 × 10⁻⁷) in the least-disturbed plots to +0.21 (p = 1 × 10⁻⁴) in the most-disturbed (Figure 6b). Among land-use interactions, spectral-by-land-use terms on turnover survived correction (EVI × forest fraction q = 4 × 10⁻⁵; EVI × edge density q = 0.002; EVI × land-cover diversity q = 0.009) and are reported as exploratory. Direct land-use effects were weak and non-significant (edge density β = −0.09, p = 0.10; forest fraction β = +0.06, p = 0.22). Last, in the BACI analysis, the treatment × post-disturbance interaction estimated a decline of approximately one species (ΔRichness β = −1.05, p = 0.069; n = 79 impact and 215 control plots), whereas abundance-weighted diversity was unchanged (p = 0.81), consistent with losses concentrated among rare species.
+First, the productivity–diversity association was descriptively steeper in older stands; simple slopes of MODIS GPP on Hill q1 rose from +0.17 (p = 0.13) at −1 SD stand age to +0.27 (p = 0.01) at the mean and +0.38 (p = 0.007) at +1 SD (Figure 6b). However, the formal GPP × stand-age interaction did not survive FDR correction (MODIS q = 0.26; PML q = 0.35). We therefore report age dependence of the productivity signal as suggestive rather than statistically supported. Second, the structure–diversity association weakened with disturbance. The leaf-area × severity interaction was negative for alpha diversity (q = 0.004), and disturbance recency additionally moderated the productivity signal (MODIS × recency q = 0.005). The VCI–diversity simple slope remained positive at all disturbance levels but declined from +0.39 (p = 9 × 10⁻⁷) in the least-disturbed plots to +0.21 (p = 1 × 10⁻⁴) in the most-disturbed (Figure 6c). Among land-use interactions, spectral-by-land-use terms on turnover survived correction (EVI × forest fraction q = 4 × 10⁻⁵; EVI × edge density q = 0.002; EVI × land-cover diversity q = 0.009) and are reported as exploratory. Direct land-use effects were weak and non-significant (edge density β = −0.09, p = 0.10; forest fraction β = +0.06, p = 0.22). Last, in the BACI analysis, the treatment × post-disturbance interaction estimated a decline of approximately one species (ΔRichness β = −1.05, p = 0.069; n = 79 impact and 215 control plots), whereas abundance-weighted diversity was unchanged (p = 0.81), consistent with losses concentrated among rare species.
 
 # 4. Discussion
 
@@ -161,14 +161,14 @@ We evaluated how three remote-sensing dimensions relate to the components of tre
 
 **Figure 1.** Conceptual framework. Three remote-sensing dimensions (static canopy state, structural dynamics, ecosystem productivity) are related to the components of tree diversity (alpha, turnover, nestedness, and the site-level species–energy relationship). Arrow weight indicates the strength of the association found in this study; arrow labels give the analytical framing through which each signal emerges (predictor levels, between-plot dissimilarity, temporal trends, site-scale aggregation). File: `figures/Figure_1.png`.
 
-**Figure 2.** Study area. (a) The 26 forested NEON sites across 12 eco-climatic domains from the conterminous United States to interior Alaska; point colour gives mean annual temperature. (b) The same sites in climate space (mean annual temperature vs precipitation); point colour gives site-mean tree diversity (Hill q1). File: `figures/Figure_2.png`.
+**Figure 2.** Study area. (a) The 26 forested NEON sites across 12 eco-climatic domains; the conterminous United States is shown in a CONUS Albers equal-area projection with the three interior-Alaska sites in an Alaska Albers inset; point colour gives mean annual temperature. (b) The same sites in climate space (mean annual temperature vs precipitation); point colour gives site-mean tree diversity (Hill q1). File: `figures/Figure_2.png`.
 
-**Figure 3.** Plot-level framework (n = 644 alpha / 579 beta plots, 26 sites, 12 domains). (a) Sequential R² beyond the NEON-domain baseline for canopy state and structural dynamics; stars give restricted wild cluster bootstrap p-values for the dynamics increment. (b) Unique (semi-partial) R² of the structural, spectral, and dynamics blocks plus their shared fraction; stars give wild cluster bootstrap block tests. (c, d) Standardized coefficients (posterior mean and 95% HDI) from the Bayesian multilevel model for Hill q1 (c) and LCBD nestedness (d); filled symbols indicate coefficients whose 95% HDI excludes zero. File: `figures/Figure_3.png`.
+**Figure 3.** Plot-level framework (n = 644 alpha / 579 beta plots, 26 sites, 12 domains). (a) Sequential R² beyond the NEON-domain baseline for canopy state and structural dynamics; stars give restricted wild cluster bootstrap p-values for the dynamics increment. (b) Unique (semi-partial) R² of the structural, spectral, and dynamics blocks plus their shared fraction; stars give wild cluster bootstrap block tests. (c–f) Standardized coefficients (posterior mean and 95% HDI) from the Bayesian multilevel model for Hill q1 (c), Hill q2 (d), LCBD turnover (e), and LCBD nestedness (f); filled symbols indicate coefficients whose 95% HDI excludes zero. File: `figures/Figure_3.png`.
 
-**Figure 4.** Remote-sensing dissimilarity tracks compositional dissimilarity (variation hypothesis). Within-site plot-pair structural (a) and spectral (b) distance versus Bray–Curtis compositional dissimilarity (n = 8,813 pairs, 23 sites); red lines show decile-bin means; r values are within-site restricted-permutation Mantel correlations (Spearman). File: `figures/Figure_4.png`.
+**Figure 4.** Remote-sensing dissimilarity tracks compositional dissimilarity (variation hypothesis). Within-site plot-pair structural (a) and spectral (b) distance versus Bray–Curtis compositional dissimilarity (n = 8,813 pairs, 23 sites); grey hexagons give the number of plot pairs (log scale); red lines show decile-bin means; r values are within-site restricted-permutation Mantel correlations (Spearman). File: `figures/Figure_4.png`.
 
-**Figure 5.** Site-level species–energy relationship. Site-mean Hill q1 versus (a) eddy-covariance tower GPP (22 sites) and (b) PML-V2 GPP (all 26 sites). Both relationships are monotonic with no quadratic (hump) support. File: `figures/Figure_5.png`.
+**Figure 5.** Site-level species–energy relationship. Site-mean Hill q1 versus (a) eddy-covariance tower GPP (22 sites), (b) PML-V2 GPP, and (c) MODIS GPP (all 26 sites). All three relationships are monotonic with no quadratic (hump) support, and both satellite products track the tower closely (r = +0.86 and +0.85). File: `figures/Figure_5.png`.
 
-**Figure 6.** Context moderation (simple slopes ± 95% CI on Hill q1). (a) MODIS GPP slope at −1 SD, mean, and +1 SD stand age; the formal interaction does not survive FDR (q = 0.26) and is reported as suggestive. (b) VCI slope at −1 SD, mean, and +1 SD disturbance severity. Asterisks: p < 0.05. File: `figures/Figure_6.png`.
+**Figure 6.** Context moderation. (a) All seven interaction terms surviving FDR correction in the 168-term screen (interaction β with 95% CI reconstructed from the reported p-values; colour = context family; q values at right). (b) Simple slopes (± 95% CI) of MODIS GPP on Hill q1 at −1 SD, mean, and +1 SD stand age; the formal interaction does not survive FDR (q = 0.26) and is reported as suggestive. (c) Simple slopes of VCI on Hill q1 by disturbance severity. Asterisks: p < 0.05. File: `figures/Figure_6.png`.
 
 *(References to be finalized against the reference manager; citation style = GEB/Ecography author–year. Generator: `scripts_pipeline/make_manuscript_figures.py`, drawn from the verified 26-site outputs with printed verification values. Supplementary Tables S1–S8 as in SUPPLEMENTARY.md.)*

diff --git a/NEON_v2/papers/UNIFIED/SUPPLEMENTARY.md b/NEON_v2/papers/UNIFIED/SUPPLEMENTARY.md
@@ -109,7 +109,7 @@ Site random-intercept variance estimated at 0 (singular); standardized fixed-eff
 
 The plot-level conclusions (§3.1–§3.3) rest on domain fixed effects with site-clustered SEs and joint block tests by restricted wild cluster bootstrap. Because inference is anchored on only 26 site clusters (~12 domains) — a regime where joint block-increment tests are known to be conservative — we re-derived the core conclusions with three additional, methodologically independent approaches. All four agree on the two headline results (**structure → alpha**; **dynamics → nestedness**), and the Bayesian coefficient-level analysis recovers the dynamics → nestedness signal that the conservative joint block test misses.
 
-**Method 1 — Bayesian multilevel (partial pooling).** bambi/PyMC, crossed random intercepts for domain and site-within-domain, non-centred parameterization, HalfNormal(0.5/0.3) priors on the group scales; 4 chains × (3,000 tune + 2,000 draws), target_accept = 0.99. Fully converged (0 divergent transitions; R̂ ≤ 1.002). The near-singular site variance (Table S4, site RE variance ≈ 0) is the source of the funnel geometry that the priors + high target_accept resolve. Coefficient credible when its 95% HDI excludes zero.
+**Method 1 — Bayesian multilevel (partial pooling).** bambi/PyMC, crossed random intercepts for domain and site-within-domain, non-centred parameterization, HalfNormal(0.5/0.3) priors on the group scales; 4 chains × (3,000 tune + 2,000 draws), target_accept = 0.99. Fully converged (0 divergent transitions; R̂ ≤ 1.002). The near-singular site variance (Table S4, site RE variance ≈ 0) is the source of the funnel geometry that the priors + high target_accept resolve. Coefficient credible when its 95% HDI excludes zero. Models were fitted for all four responses; the table below shows the two headline responses (Hill q2 mirrors q1 — LAI +0.40, VCI +0.26, EVI +0.26 credible; turnover shows only two small credible dynamics trends, LAI trend and height-ratio trend, both β ≈ +0.09), full posteriors in `bayes_multilevel_coeffs.csv`.
 
 | Response | Predictor | β (std) | 95% HDI | pd |
 |---|---|---|---|---|
